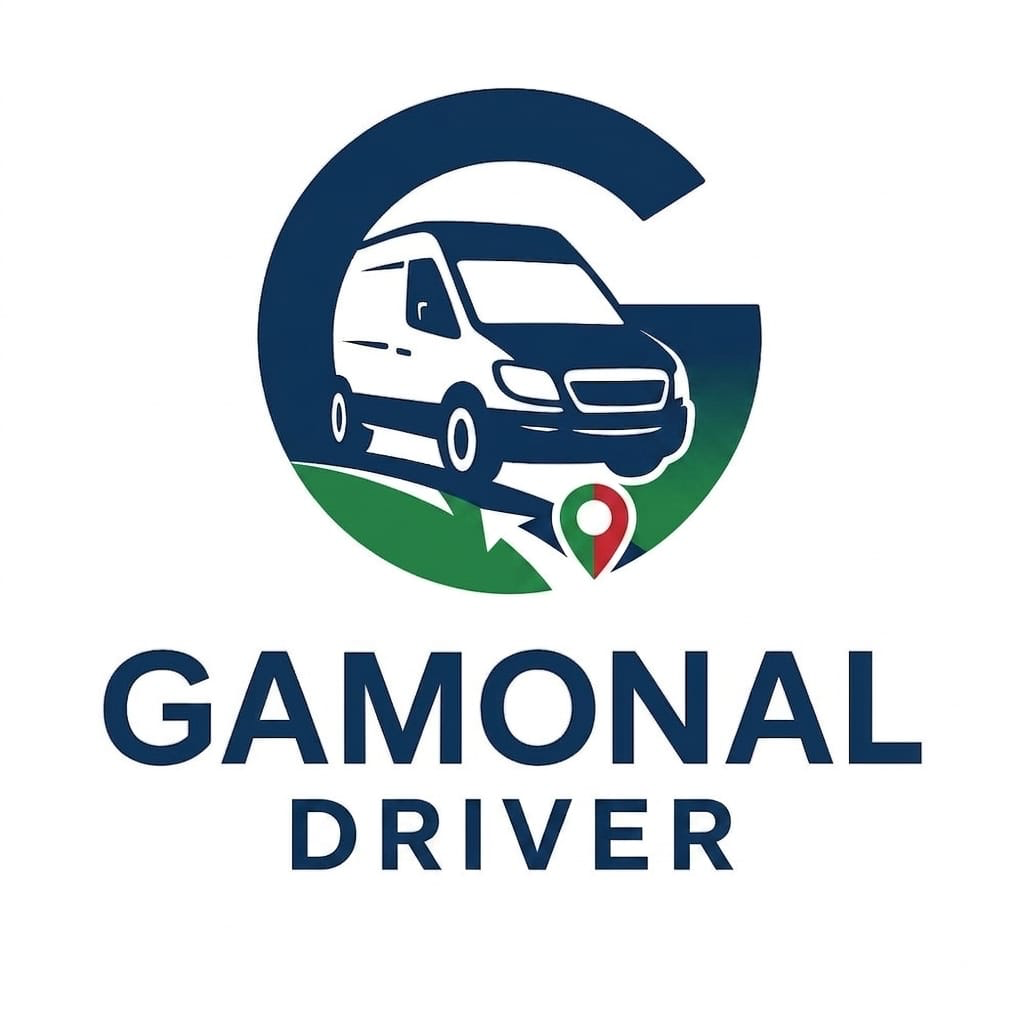
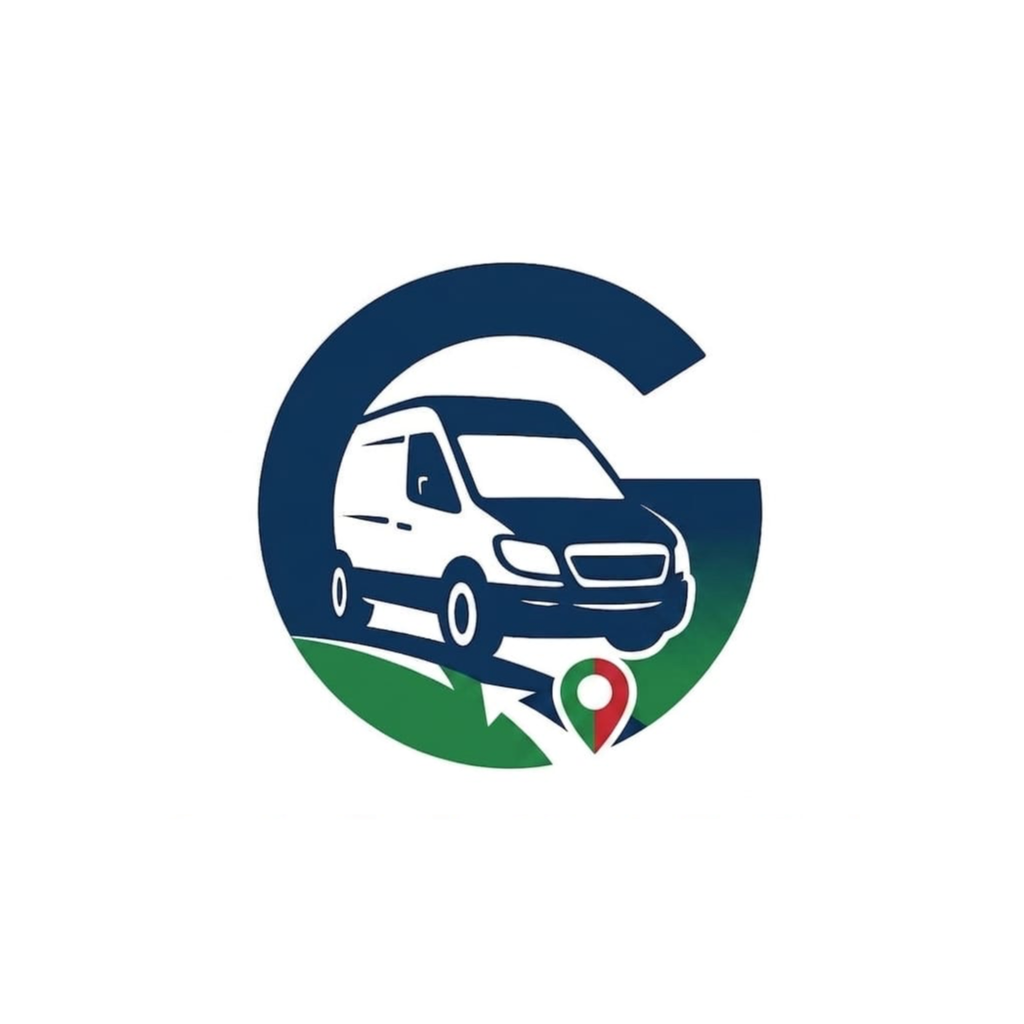
feat(branding): mobile — nombre "Gamonal Driver" + íconos sin texto
- expo.name: "Gamonal Trasporti" -> "Gamonal Driver" (consistente con web).
- icon.png (iOS) y android-icon-foreground.png usaban el logo completo con
  el texto "GAMONAL DRIVER" pegado abajo — al recortarse en círculo/squircle
  (iOS/Android adaptive icon) el texto quedaba cortado/ilegible. Los
  reemplazo por el ícono solo (logo-mark.png) centrado con margen de
  seguridad, igual que ya usa la propia pantalla de login de la app.
- Footer del login actualizado a "Gamonal Driver".

Nota: requiere un nuevo build (buildNumber) para verse reflejado en
dispositivos/App Store — no soy quien hace ese submit.

Changed region(s): [[0.0938, 0.0625, 0.9062, 0.75], [0.2812, 0.7812, 0.7188, 0.875]]

diff --git a/apps/logistica-app/app/index.tsx b/apps/logistica-app/app/index.tsx
@@ -139,7 +139,7 @@ export default function LoginScreen() {
         </View>
       </View>
 
-      <Text style={styles.footer}>v1.0.0 • Gamonal Trasporti</Text>
+      <Text style={styles.footer}>v1.0.0 • Gamonal Driver</Text>
     </KeyboardAvoidingView>
   );
 }
